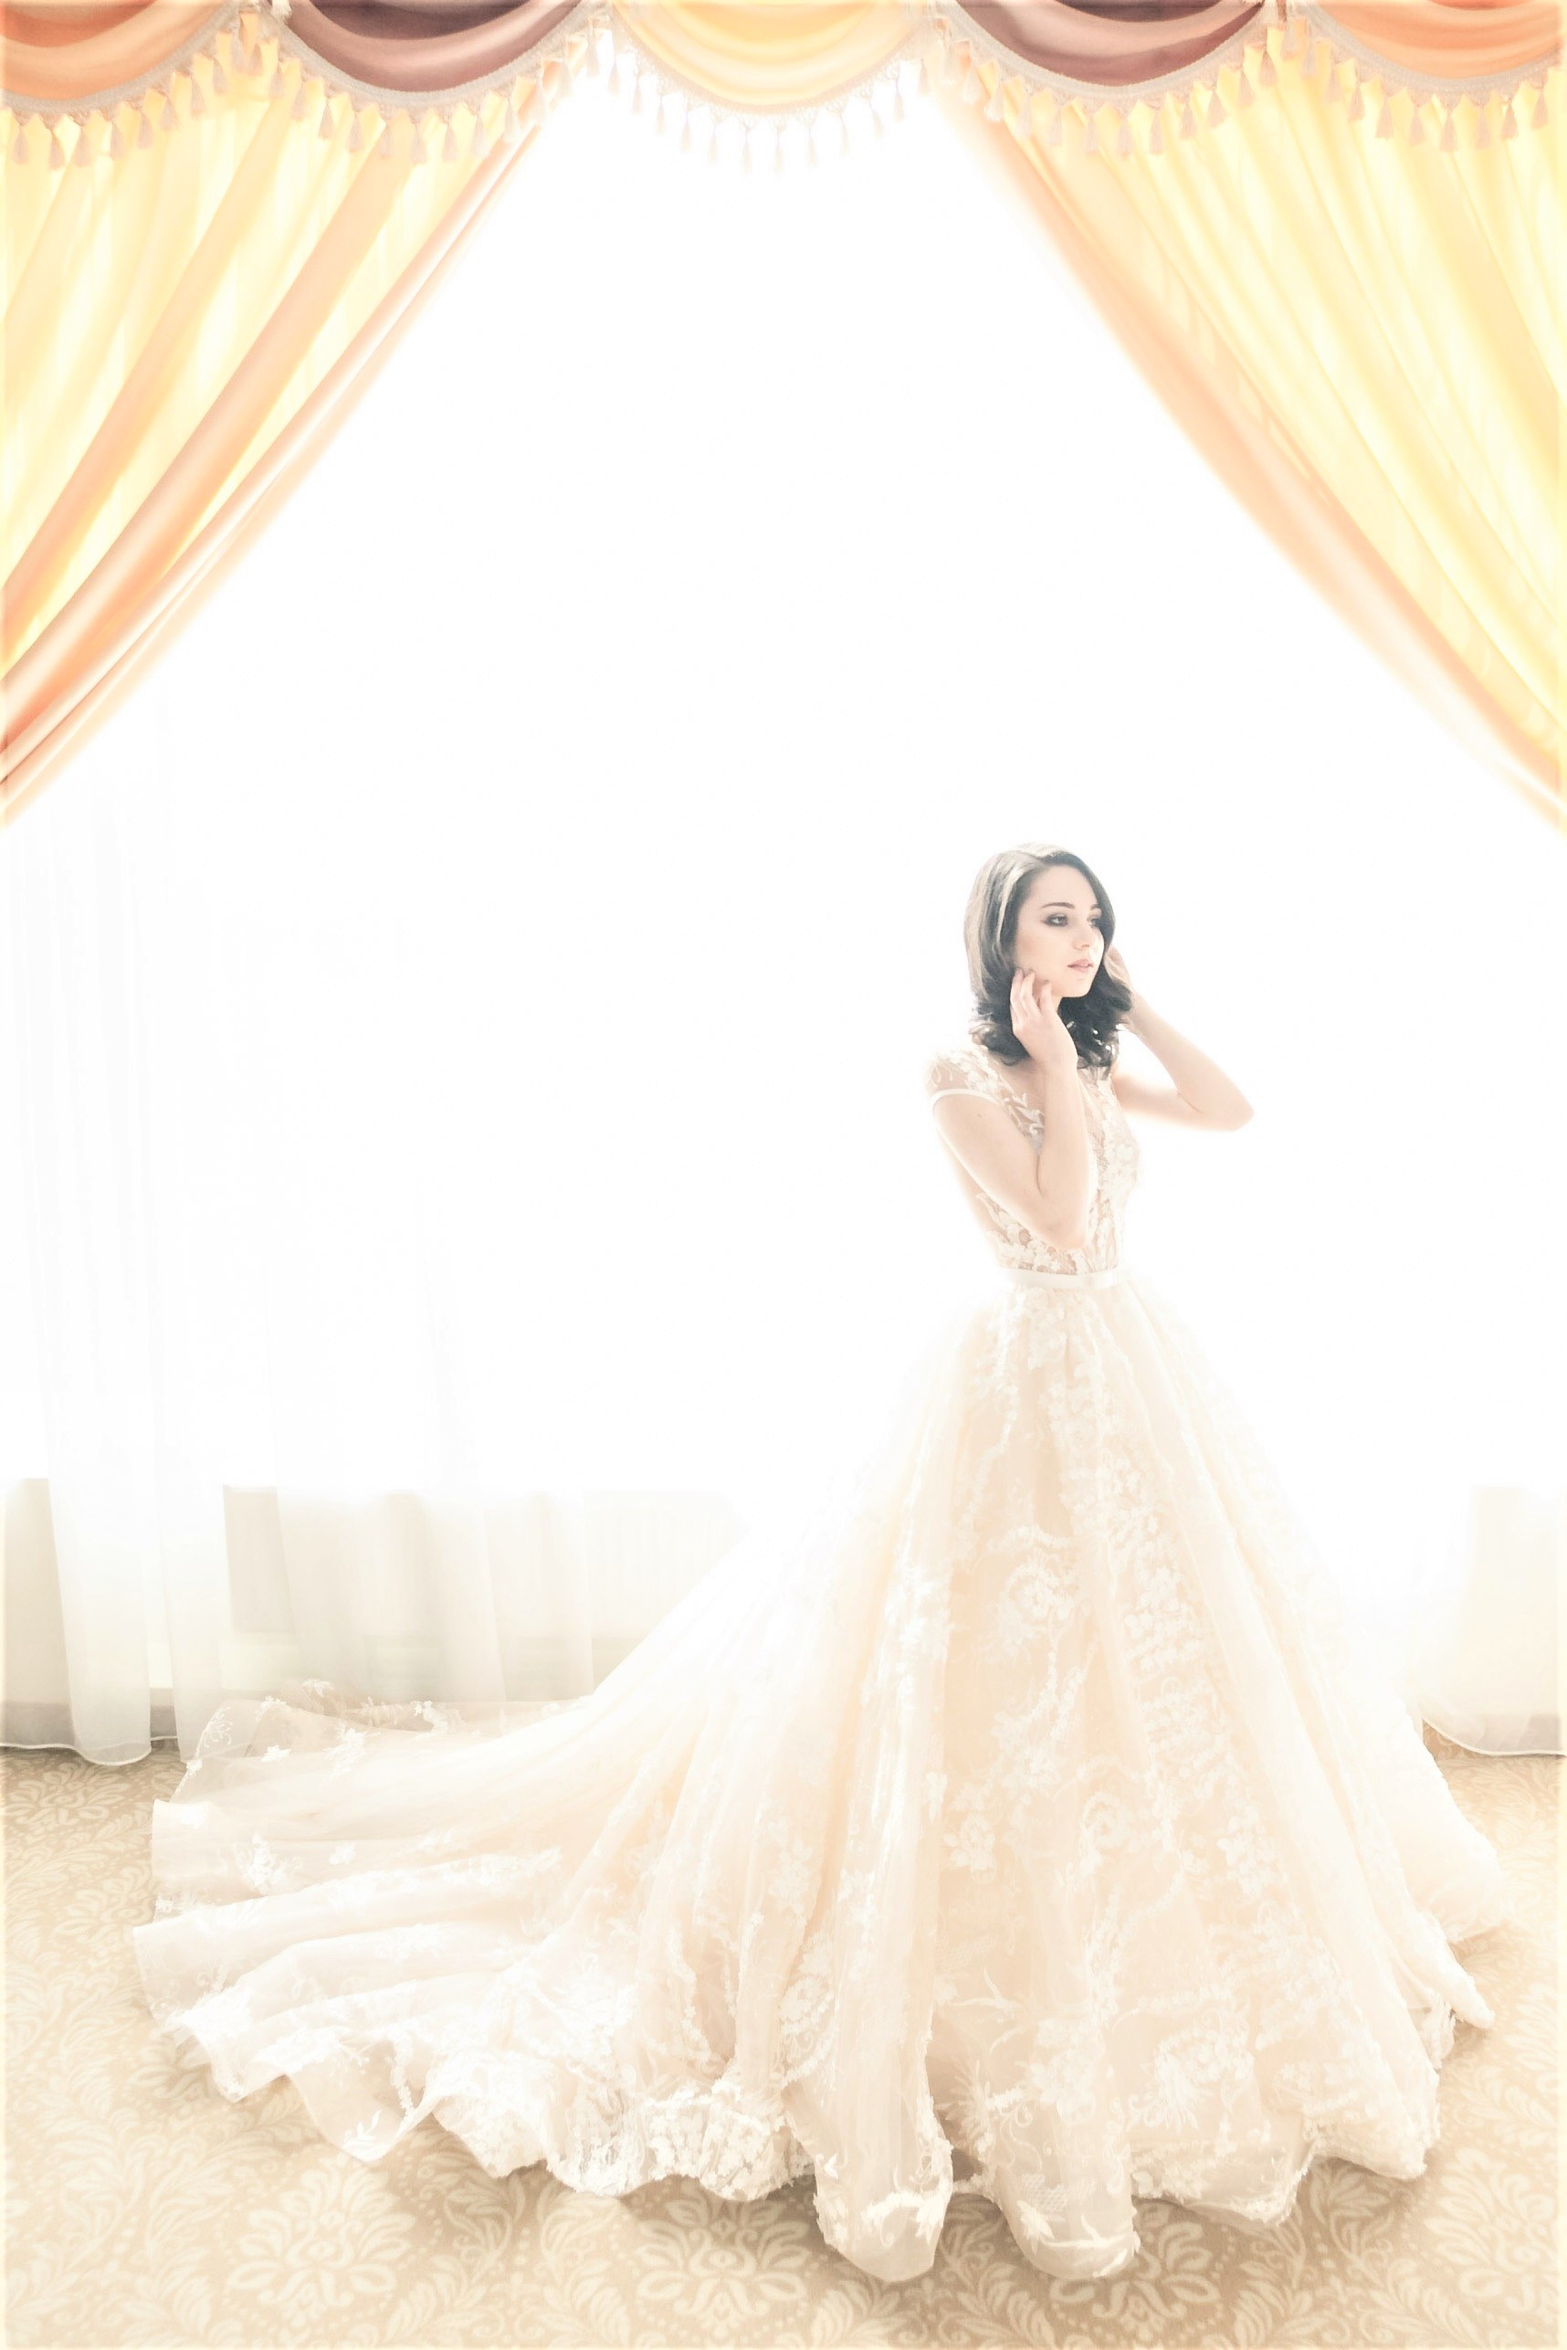
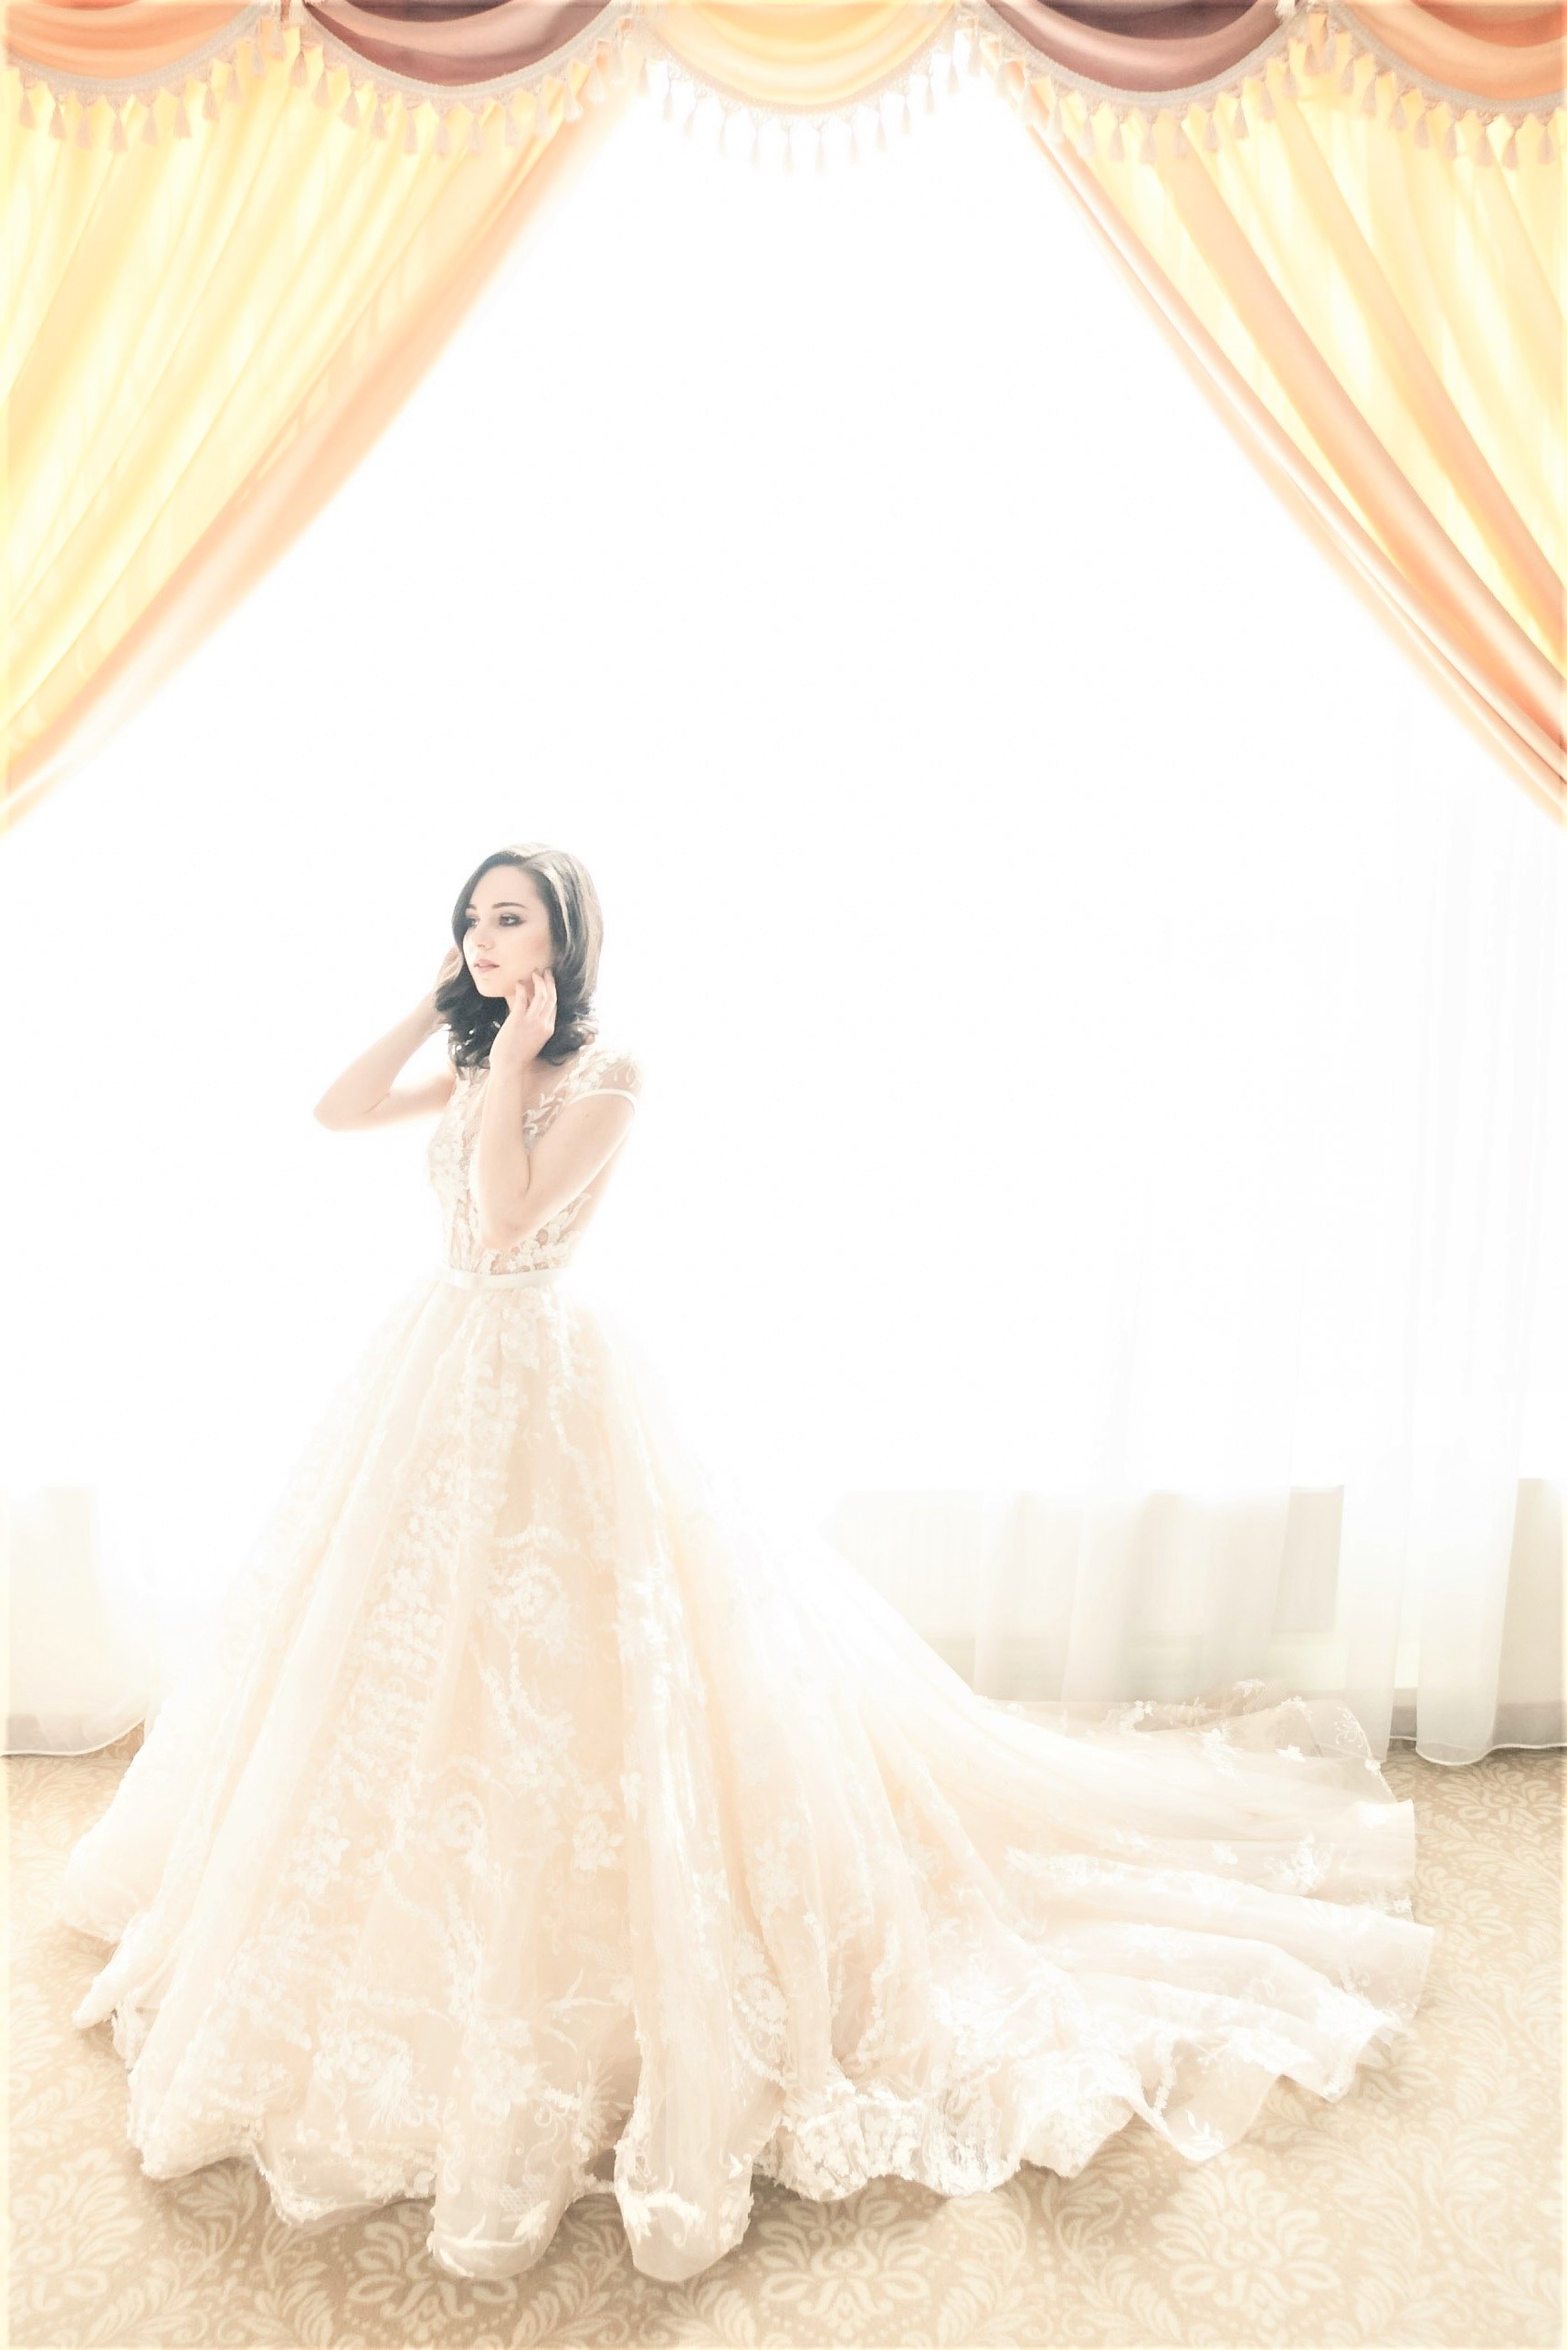
update

Changed region(s): [[0.0, 0.342, 1.0, 1.0], [0.5251, 0.0, 1.0, 0.342], [0.0, 0.0, 0.4633, 0.342]]

diff --git a/Learning_Grids/css/custom.css b/Learning_Grids/css/custom.css
@@ -1,5 +1,5 @@
 body {
-  max-width: 80%;
+  max-width: 86%;
   margin: auto;
   background-image: url("/img/wavy-dots.png");
   background-repeat: repeat;
@@ -16,7 +16,40 @@ body {
     'section section section section section section'
     'left left middle middle right right'
     'footer footer footer footer footer footer';
+}
+.section,
+.left,
+.middle,
+.right {
+  background:url("/img/light-veneer.png");
+}
 
+.header,
+.navbar,
+.footer {
+  background:
+    -webkit-radial-gradient(black 3px, transparent 4px),
+    -webkit-radial-gradient(black 3px, transparent 4px),
+    -webkit-linear-gradient(#fff 4px, transparent 0),
+    -webkit-linear-gradient(45deg, transparent 74px, transparent 75px, #a4a4a4 75px, #a4a4a4 76px, transparent 77px, transparent 109px),
+    -webkit-linear-gradient(135deg, transparent 75px, transparent 76px, #a4a4a4 76px, #a4a4a4 77px, transparent 78px, transparent 109px),
+    #fff;
+  background:
+    -o-radial-gradient(black 3px, transparent 4px),
+    -o-radial-gradient(black 3px, transparent 4px),
+    -o-linear-gradient(#fff 4px, transparent 0),
+    -o-linear-gradient(45deg, transparent 74px, transparent 75px, #a4a4a4 75px, #a4a4a4 76px, transparent 77px, transparent 109px),
+    -o-linear-gradient(135deg, transparent 75px, transparent 76px, #a4a4a4 76px, #a4a4a4 77px, transparent 78px, transparent 109px),
+    #fff;
+  background:
+    radial-gradient(black 3px, transparent 4px),
+    radial-gradient(black 3px, transparent 4px),
+    linear-gradient(#fff 4px, transparent 0),
+    linear-gradient(45deg, transparent 74px, transparent 75px, #a4a4a4 75px, #a4a4a4 76px, transparent 77px, transparent 109px),
+    linear-gradient(-45deg, transparent 75px, transparent 76px, #a4a4a4 76px, #a4a4a4 77px, transparent 78px, transparent 109px),
+    #fff;
+  background-size: 109px 109px, 109px 109px, 100% 6px, 109px 109px, 109px 109px;
+  background-position: 54px 55px, 0px 0px, 0px 0px, 0px 0px, 0px 0px;
 
 }
 
@@ -36,37 +69,12 @@ body {
   font-family: 'Great Vibes', cursive;
   -webkit-font-kerning: auto;
   font-kerning: auto;
-  background:
-    -webkit-radial-gradient(black 3px, transparent 4px),
-    -webkit-radial-gradient(black 3px, transparent 4px),
-    -webkit-linear-gradient(#fff 4px, transparent 0),
-    -webkit-linear-gradient(45deg, transparent 74px, transparent 75px, #a4a4a4 75px, #a4a4a4 76px, transparent 77px, transparent 109px),
-    -webkit-linear-gradient(135deg, transparent 75px, transparent 76px, #a4a4a4 76px, #a4a4a4 77px, transparent 78px, transparent 109px),
-    #fff;
-  background:
-    -o-radial-gradient(black 3px, transparent 4px),
-    -o-radial-gradient(black 3px, transparent 4px),
-    -o-linear-gradient(#fff 4px, transparent 0),
-    -o-linear-gradient(45deg, transparent 74px, transparent 75px, #a4a4a4 75px, #a4a4a4 76px, transparent 77px, transparent 109px),
-    -o-linear-gradient(135deg, transparent 75px, transparent 76px, #a4a4a4 76px, #a4a4a4 77px, transparent 78px, transparent 109px),
-    #fff;
-  background:
-    radial-gradient(black 3px, transparent 4px),
-    radial-gradient(black 3px, transparent 4px),
-    linear-gradient(#fff 4px, transparent 0),
-    linear-gradient(45deg, transparent 74px, transparent 75px, #a4a4a4 75px, #a4a4a4 76px, transparent 77px, transparent 109px),
-    linear-gradient(-45deg, transparent 75px, transparent 76px, #a4a4a4 76px, #a4a4a4 77px, transparent 78px, transparent 109px),
-    #fff;
-  background-size: 109px 109px, 109px 109px, 100% 6px, 109px 109px, 109px 109px;
-  background-position: 54px 55px, 0px 0px, 0px 0px, 0px 0px, 0px 0px;
-
 }
 
 .navbar {
   -ms-grid-row: 3;
   -ms-grid-column: 1;
   -ms-grid-column-span: 11;
-
   grid-area: navbar;
   border: 0.26em double gold;
   -webkit-box-shadow: -0.3px 0.3em 0.3em pink;
@@ -77,30 +85,6 @@ body {
   position: sticky;
   position: -webkit-sticky;
   top: 0;
-  background:
-    -webkit-radial-gradient(black 3px, transparent 4px),
-    -webkit-radial-gradient(black 3px, transparent 4px),
-    -webkit-linear-gradient(#fff 4px, transparent 0),
-    -webkit-linear-gradient(45deg, transparent 74px, transparent 75px, #a4a4a4 75px, #a4a4a4 76px, transparent 77px, transparent 109px),
-    -webkit-linear-gradient(135deg, transparent 75px, transparent 76px, #a4a4a4 76px, #a4a4a4 77px, transparent 78px, transparent 109px),
-    #fff;
-  background:
-    -o-radial-gradient(black 3px, transparent 4px),
-    -o-radial-gradient(black 3px, transparent 4px),
-    -o-linear-gradient(#fff 4px, transparent 0),
-    -o-linear-gradient(45deg, transparent 74px, transparent 75px, #a4a4a4 75px, #a4a4a4 76px, transparent 77px, transparent 109px),
-    -o-linear-gradient(135deg, transparent 75px, transparent 76px, #a4a4a4 76px, #a4a4a4 77px, transparent 78px, transparent 109px),
-    #fff;
-  background:
-    radial-gradient(black 3px, transparent 4px),
-    radial-gradient(black 3px, transparent 4px),
-    linear-gradient(#fff 4px, transparent 0),
-    linear-gradient(45deg, transparent 74px, transparent 75px, #a4a4a4 75px, #a4a4a4 76px, transparent 77px, transparent 109px),
-    linear-gradient(-45deg, transparent 75px, transparent 76px, #a4a4a4 76px, #a4a4a4 77px, transparent 78px, transparent 109px),
-    #fff;
-  background-size: 109px 109px, 109px 109px, 100% 6px, 109px 109px, 109px 109px;
-  background-position: 54px 55px, 0px 0px, 0px 0px, 0px 0px, 0px 0px;
-
 }
 
 #main_nav {
@@ -129,40 +113,16 @@ body {
 }
 
 
+.middle,
 .section,
 .left,
-.middle,
 .right {
-  border: 0.3em double gold;
+  border: 0.26em double gold;
   -webkit-box-shadow: -0.27px 0.3em 0.3em pink;
   box-shadow: -0.27px 0.3em 0.3em pink;
   border-radius: 1em;
   overflow: hidden;
-  padding: 1.1em;
-  background:
-    -webkit-radial-gradient(black 3px, transparent 4px),
-    -webkit-radial-gradient(black 3px, transparent 4px),
-    -webkit-linear-gradient(#fff 4px, transparent 0),
-    -webkit-linear-gradient(45deg, transparent 74px, transparent 75px, #a4a4a4 75px, #a4a4a4 76px, transparent 77px, transparent 109px),
-    -webkit-linear-gradient(135deg, transparent 75px, transparent 76px, #a4a4a4 76px, #a4a4a4 77px, transparent 78px, transparent 109px),
-    #fff;
-  background:
-    -o-radial-gradient(black 3px, transparent 4px),
-    -o-radial-gradient(black 3px, transparent 4px),
-    -o-linear-gradient(#fff 4px, transparent 0),
-    -o-linear-gradient(45deg, transparent 74px, transparent 75px, #a4a4a4 75px, #a4a4a4 76px, transparent 77px, transparent 109px),
-    -o-linear-gradient(135deg, transparent 75px, transparent 76px, #a4a4a4 76px, #a4a4a4 77px, transparent 78px, transparent 109px),
-    #fff;
-  background:
-    radial-gradient(black 3px, transparent 4px),
-    radial-gradient(black 3px, transparent 4px),
-    linear-gradient(#fff 4px, transparent 0),
-    linear-gradient(45deg, transparent 74px, transparent 75px, #a4a4a4 75px, #a4a4a4 76px, transparent 77px, transparent 109px),
-    linear-gradient(-45deg, transparent 75px, transparent 76px, #a4a4a4 76px, #a4a4a4 77px, transparent 78px, transparent 109px),
-    #fff;
-  background-size: 109px 109px, 109px 109px, 100% 6px, 109px 109px, 109px 109px;
-  background-position: 54px 55px, 0px 0px, 0px 0px, 0px 0px, 0px 0px;
-
+  padding: 1em;
 
 }
 
@@ -172,8 +132,6 @@ body {
   -ms-grid-column: 1;
   -ms-grid-column-span: 3;
   grid-area: left;
-
-
 }
 
 .left-1 {}
@@ -223,7 +181,6 @@ body {
   justify-content: space-around;
   background-color: white;
 
-
 }
 
 .column {
@@ -231,7 +188,7 @@ body {
   text-align: justify;
   font-family: "Gruppo", cursive;
   font-size: 1.2em;
-  border: 0.2em double gold;
+  border: 0.01em solid gold;
 }
 
 .column::before,
@@ -253,38 +210,15 @@ body {
   overflow: hidden;
   margin: 0.0em 0.0em 3em;
   padding: 5em;
-  background:
-    -webkit-radial-gradient(black 3px, transparent 4px),
-    -webkit-radial-gradient(black 3px, transparent 4px),
-    -webkit-linear-gradient(#fff 4px, transparent 0),
-    -webkit-linear-gradient(45deg, transparent 74px, transparent 75px, #a4a4a4 75px, #a4a4a4 76px, transparent 77px, transparent 109px),
-    -webkit-linear-gradient(135deg, transparent 75px, transparent 76px, #a4a4a4 76px, #a4a4a4 77px, transparent 78px, transparent 109px),
-    #fff;
-  background:
-    -o-radial-gradient(black 3px, transparent 4px),
-    -o-radial-gradient(black 3px, transparent 4px),
-    -o-linear-gradient(#fff 4px, transparent 0),
-    -o-linear-gradient(45deg, transparent 74px, transparent 75px, #a4a4a4 75px, #a4a4a4 76px, transparent 77px, transparent 109px),
-    -o-linear-gradient(135deg, transparent 75px, transparent 76px, #a4a4a4 76px, #a4a4a4 77px, transparent 78px, transparent 109px),
-    #fff;
-  background:
-    radial-gradient(black 3px, transparent 4px),
-    radial-gradient(black 3px, transparent 4px),
-    linear-gradient(#fff 4px, transparent 0),
-    linear-gradient(45deg, transparent 74px, transparent 75px, #a4a4a4 75px, #a4a4a4 76px, transparent 77px, transparent 109px),
-    linear-gradient(-45deg, transparent 75px, transparent 76px, #a4a4a4 76px, #a4a4a4 77px, transparent 78px, transparent 109px),
-    #fff;
-  background-size: 109px 109px, 109px 109px, 100% 6px, 109px 109px, 109px 109px;
-  background-position: 54px 55px, 0px 0px, 0px 0px, 0px 0px, 0px 0px;
 }
 
 img {
-  border: 0.2em double gold;
+  border: 0.01em solid gold;
   width: 100%;
   height: 100%;
   border-radius: 0.0em 2em;
-  -webkit-box-shadow: 0.5em 0.5em 0.5em pink;
-  box-shadow: 0.5em 0.5em 0.5em pink;
+  -webkit-box-shadow: -0.27px 0.3em 0.3em gold;
+  box-shadow: -0.27px 0.3em 0.3em pink;
 }
 
 @media screen and (max-width: 1350px) {
@@ -292,7 +226,6 @@ img {
   #main_nav a {
     display: block;
     text-align: center;
-
   }
 
   #main_nav {
@@ -300,12 +233,16 @@ img {
     width: 100%;
     margin: auto;
     padding: auto;
-
   }
 
   .navbar {
     position: static;
+    background:url("/img/light-veneer.png");
   }
+  /*.section, .left, .right, .middle{
+   background:  none;
+  }*/
+
 }
 
 @media screen and (max-width: 800px) {

diff --git a/Learning_Grids/index.html b/Learning_Grids/index.html
@@ -34,13 +34,13 @@
     </div>
    
     <div class="left">
-      <img src="img/wellbehaved.jpg" alt="A picture"/>
+      <img src="img/wedding.jpg" alt="A picture"/>
     </div>
     <div class="middle">
-      <img src="img/bride1.jpg" alt="A picture 2"/>
+      <img src="img/coco.jpg" alt="A picture 2"/>
     </div>
     <div class="right" >
-      <img src="img/coco.jpg" alt="A picture 3"/>
+      <img src="img/bride1.jpg" alt="A picture 3"/>
     </div>
     <div class="section">
       <div class="row">
@@ -71,7 +71,9 @@
       </div>
     </div>
     <div class="footer">
-      <div class="social-media"></div>
+      <div class="social-media">
+        
+      </div>
     </div>
   </div>
   <!--[if IE]>
